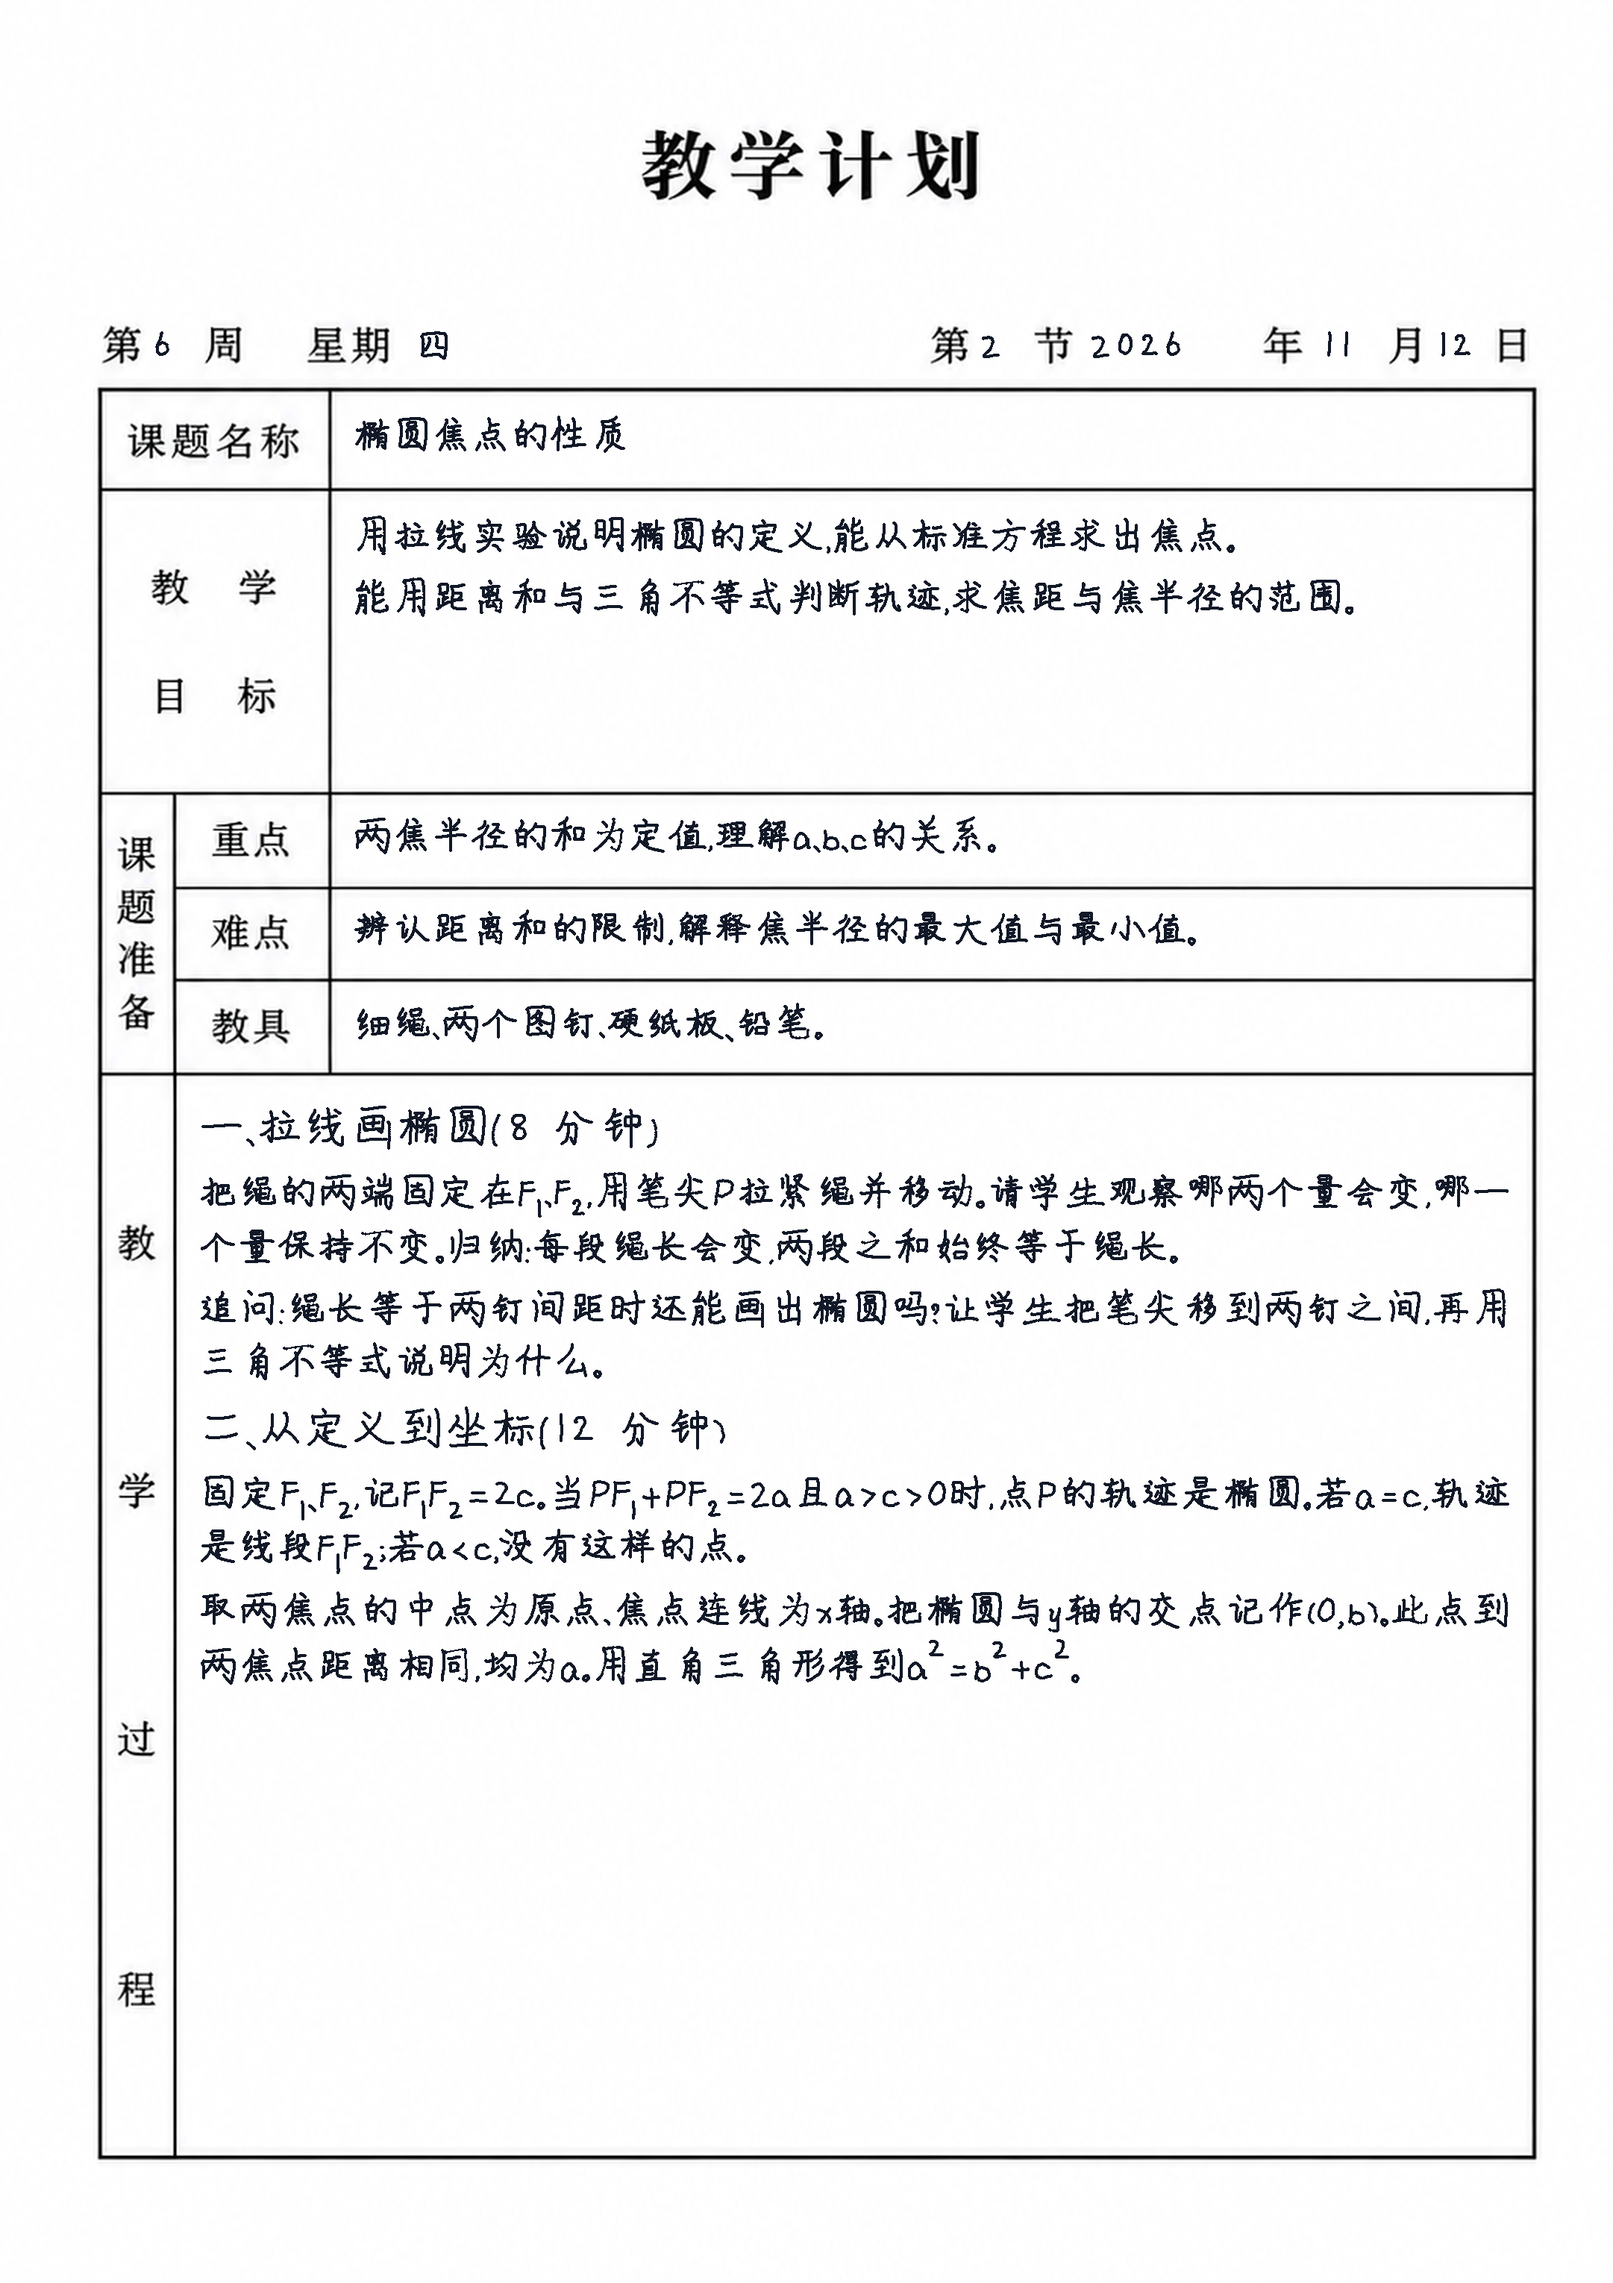
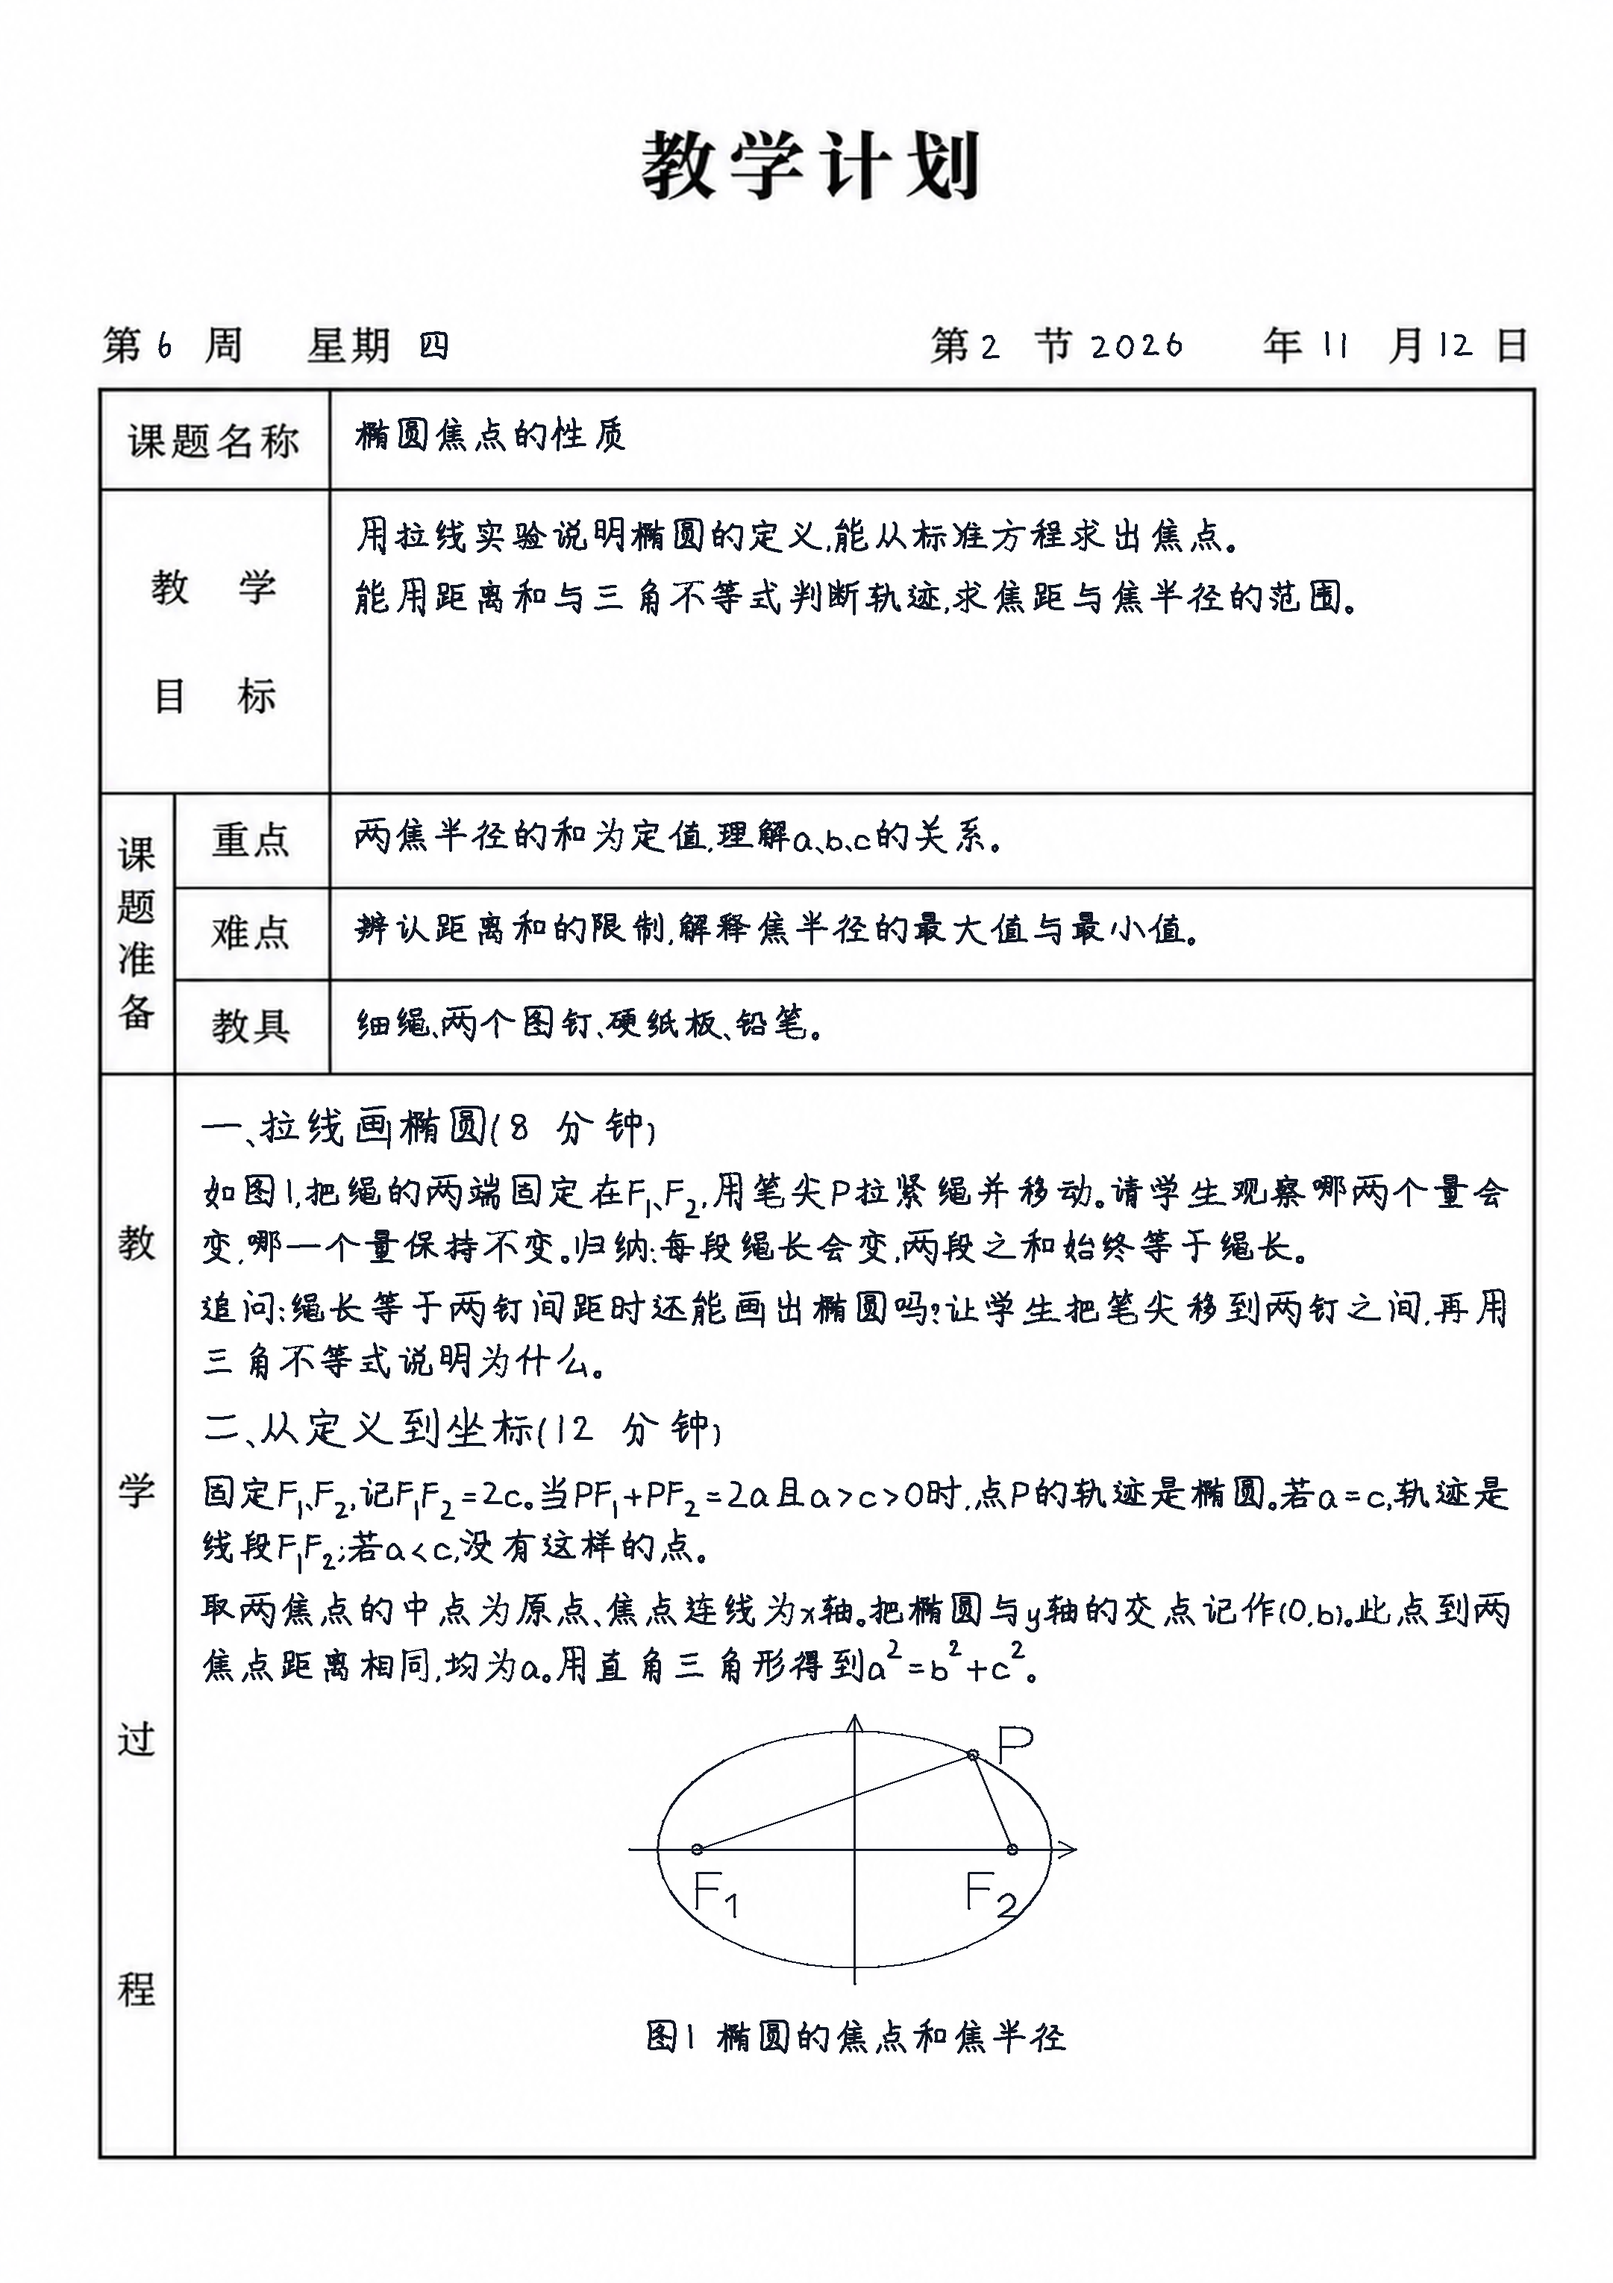
Show single-line SVG layout in the lesson plan tutorial

diff --git a/site/guide/lesson-plan-template.md b/site/guide/lesson-plan-template.md
@@ -1,5 +1,5 @@
 ---
-description: 用两张 183 × 259 mm 预印教案纸制作模板，通过《椭圆焦点的性质》练习正文续排和字段绑定。
+description: 用两张 183 × 259 mm 预印教案纸制作模板，通过《椭圆焦点的性质》练习正文续排、字段绑定和 SVG 线图排版。
 ---
 
 <script setup>
@@ -94,6 +94,10 @@ import { withBase } from 'vitepress'
 
 ## 5. 填写《椭圆焦点的性质》并试排
 
+<p><a :href="withBase('/downloads/lesson-plan/ellipse-foci.svg')" download>下载椭圆焦点线图 SVG</a></p>
+
+以下两份 Markdown 都会引用这张线图。下载后，把 SVG 和要导入的 Markdown 放在同一个文件夹里，保留文件名 `ellipse-foci.svg`。导入 Markdown 时，InkStruct 会一并读取线图。
+
 ### 用自己刚做的模板
 
 <p><a :href="withBase('/downloads/lesson-plan/ellipse-lesson-body.md')" download>下载仅含教学过程的 Markdown</a></p>
@@ -129,17 +133,30 @@ import { withBase } from 'vitepress'
 
 自己新建的字段会有软件分配的稳定标识。需要手写字段块时，在 **字段声明** 选中该字段，点 **复制字段写法**。用 **填写字段…** 会自动写入正确的标识。
 
+### 让 SVG 线图随正文排版
+
+两份 Markdown 都已在第二节末尾插入以下一行。前后各留一个空行，让线图独占一段。方括号里的文字会排成手写图题，和线图一起留在同一页。
+
+```markdown
+![图1 椭圆的焦点和焦半径](ellipse-foci.svg)
+```
+
+1. 在右侧 **元素属性 › 表格与图片** 的下拉列表中选中 **图片 1**，点 **独立设置**。
+2. **尺寸依据** 选 **按高度，宽度按比例**，高度填 **34 mm**，**图片对齐** 选 **居中**，**图片与图题间距** 填 **1.5 mm**，点 **应用元素属性**。软件会按原比例计算宽度，本例约为 **55.5 mm**。
+
+图中的椭圆、两条焦半径和字母标注都由线条构成。导出写字机 SVG 时，InkStruct 会用文档笔宽把这些线条和手写图题一起输出。保存 `.inkdoc` 后，线图也会保存在项目里。
+
 ### 核对两页
 
-给文档应用覆盖所需汉字和公式的字体。本例试排使用 **字大小 4.2 mm**、**行高 6.0 mm**、**笔宽 0.27 mm**、**公式字号 4.4 mm**。
+给文档应用覆盖所需汉字和公式的字体。本例试排使用 **字高 4.2 mm**、**行高 6.0 mm**、**笔宽 0.27 mm**、**公式字号 4.4 mm**，**段距**与**标题段距**均为 **1 mm**。
 
-- 第 1 页有课题、目标，以及「拉线画椭圆」「从定义到坐标」。
+- 第 1 页有课题、目标，以及「拉线画椭圆」「从定义到坐标」。椭圆线图和图题位于首页正文框底部。
 - 第 2 页从「求焦点和焦半径」开始，底部是独立的作业和小结。
 - 字段内容本身不会新增续页。要使用续页底部的栏位，请让正文进入续页。正文若排到第 3 页，当前循环设置会再次使用续页，并重复该版式里的作业和小结。
 - 字段内容放不下时，可缩短该栏内容，或在纸面允许的范围内调大该框。正文仍按正文框的顺序续排。
 
 | 教案首页 | 教案续页 |
 | --- | --- |
-| [![首页成稿，课题和日期在固定栏位，教学过程从首页下半部开始](/screenshots/lesson-plan/lesson-page-1.png)](/screenshots/lesson-plan/lesson-page-1.png) | [![续页成稿，焦半径例题在正文区，作业和小结位于底部](/screenshots/lesson-plan/lesson-page-2.png)](/screenshots/lesson-plan/lesson-page-2.png) |
+| [![首页成稿，课题和日期在固定栏位，椭圆线图和图题位于正文框底部](/screenshots/lesson-plan/lesson-page-1.png)](/screenshots/lesson-plan/lesson-page-1.png) | [![续页成稿，焦半径例题在正文区，作业和小结位于底部](/screenshots/lesson-plan/lesson-page-2.png)](/screenshots/lesson-plan/lesson-page-2.png) |
 
 预览合适后，点 **文件 › 保存项目**。用写字机时，在 **导出 SVG…** 中先只选第 **1** 页，在实物纸张上核对课题和正文的落点。若与印刷栏线有偏差，先复测纸宽、纸高及纸边到栏线的距离，再调整纸张参数、框位置或校准值。

diff --git a/site/public/downloads/lesson-plan/ellipse-lesson.md b/site/public/downloads/lesson-plan/ellipse-lesson.md
@@ -58,7 +58,7 @@
 
 ### 一、拉线画椭圆（8 分钟）
 
-把绳的两端固定在$F_1$、$F_2$，用笔尖$P$拉紧绳并移动。请学生观察哪两个量会变，哪一个量保持不变。归纳：每段绳长会变，两段之和始终等于绳长。
+如图1，把绳的两端固定在$F_1$、$F_2$，用笔尖$P$拉紧绳并移动。请学生观察哪两个量会变，哪一个量保持不变。归纳：每段绳长会变，两段之和始终等于绳长。
 
 追问：绳长等于两钉间距时还能画出椭圆吗？让学生把笔尖移到两钉之间，再用三角不等式说明为什么。
 
@@ -67,6 +67,8 @@
 固定$F_1$、$F_2$，记$F_1F_2=2c$。当$PF_1+PF_2=2a$且$a>c>0$时，点$P$的轨迹是椭圆。若$a=c$，轨迹是线段$F_1F_2$；若$a<c$，没有这样的点。
 
 取两焦点的中点为原点、焦点连线为$x$轴。把椭圆与$y$轴的交点记作$(0,b)$。此点到两焦点距离相同，均为$a$。用直角三角形得到$a^2=b^2+c^2$。
+
+![图1 椭圆的焦点和焦半径](ellipse-foci.svg)
 
 \framebreak
 

diff --git a/site/public/downloads/lesson-plan/ellipse-lesson-body.md b/site/public/downloads/lesson-plan/ellipse-lesson-body.md
@@ -1,6 +1,6 @@
 ### 一、拉线画椭圆（8 分钟）
 
-把绳的两端固定在$F_1$、$F_2$，用笔尖$P$拉紧绳并移动。请学生观察哪两个量会变，哪一个量保持不变。归纳：每段绳长会变，两段之和始终等于绳长。
+如图1，把绳的两端固定在$F_1$、$F_2$，用笔尖$P$拉紧绳并移动。请学生观察哪两个量会变，哪一个量保持不变。归纳：每段绳长会变，两段之和始终等于绳长。
 
 追问：绳长等于两钉间距时还能画出椭圆吗？让学生把笔尖移到两钉之间，再用三角不等式说明为什么。
 
@@ -9,6 +9,8 @@
 固定$F_1$、$F_2$，记$F_1F_2=2c$。当$PF_1+PF_2=2a$且$a>c>0$时，点$P$的轨迹是椭圆。若$a=c$，轨迹是线段$F_1F_2$；若$a<c$，没有这样的点。
 
 取两焦点的中点为原点、焦点连线为$x$轴。把椭圆与$y$轴的交点记作$(0,b)$。此点到两焦点距离相同，均为$a$。用直角三角形得到$a^2=b^2+c^2$。
+
+![图1 椭圆的焦点和焦半径](ellipse-foci.svg)
 
 \framebreak
 
